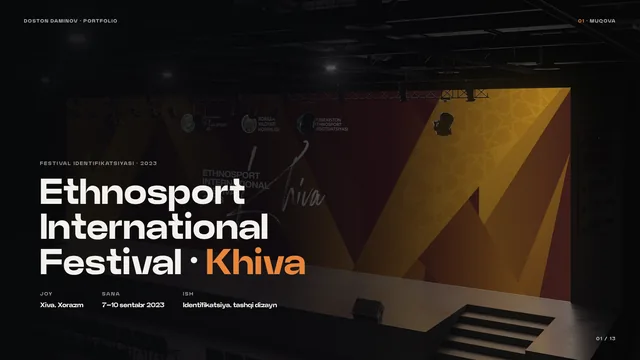
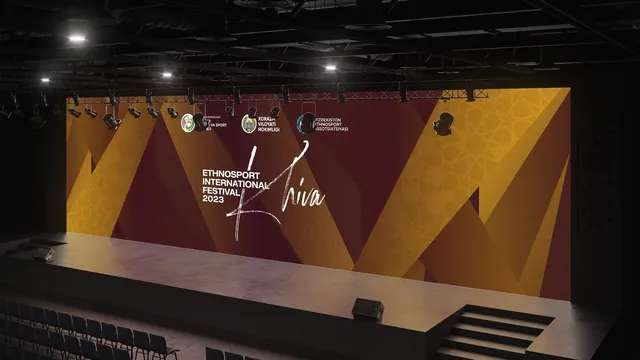
Project covers: shade with the project title and info, like the deck covers
Claude-Session: https://claude.ai/code/session_01VXXAcJEEEktwimZtrp579k

diff --git a/src/App.tsx b/src/App.tsx
@@ -695,14 +695,12 @@ function CategoryPage({ cat, onOpen }: { cat: Category; onOpen: (p: Project) => 
               <span className="relative block aspect-video overflow-hidden rounded-[1.25rem]">
                 {(p.videos || p.embed) && <span className="absolute top-3 left-3 z-10 rounded-full bg-black/70 px-3 py-1 text-[10px] font-bold tracking-wide text-white uppercase">{p.videos ? "▶ Video" : "▶ Motion"}</span>}
                 <img src={img(`${p.id}.webp`)} srcSet={`${img(`${p.id}-s.webp`)} 640w, ${img(`${p.id}.webp`)} 1200w`} sizes="(max-width: 640px) 95vw, 50vw" alt={t(p.title)} loading="lazy" decoding="async" className="h-full w-full object-cover transition-transform duration-[1.2s] ease-out group-hover:scale-105" />
+                <CoverText p={p} />
               </span>
               <span className="flex items-center gap-4 px-1 pt-4 pb-1">
                 <span className="min-w-0 flex-1">
                   <span className="block font-cond text-base font-extrabold uppercase sm:text-lg">{p.client}</span>
-                  <span className="block truncate text-xs text-white/50 sm:text-sm">
-                    {t(p.title)}
-                    {p.year && ` · ${p.year}`} · {t(p.tags)}
-                  </span>
+                  <span className="block truncate text-xs text-white/50 sm:hidden">{t(p.tags)}</span>
                 </span>
                 <span className="pill-line shrink-0 px-4 py-2 text-[10px] group-hover:bg-white group-hover:text-black sm:text-xs">{t(ui.projects.view)}</span>
               </span>
@@ -722,6 +720,43 @@ function CategoryPage({ cat, onOpen }: { cat: Category; onOpen: (p: Project) => 
         </div>
       </div>
     </main>
+  )
+}
+
+// Title over a project cover, like the deck covers: dark shade from the left and bottom,
+// the title with its last part in the accent color, and a small info row.
+const coverLabels = {
+  client: { uz: 'Mijoz', ru: 'Клиент', en: 'Client' },
+  year: { uz: 'Yil', ru: 'Год', en: 'Year' },
+  work: { uz: 'Ish', ru: 'Работа', en: 'Work' },
+}
+function CoverText({ p }: { p: Project }) {
+  const { t } = useLang()
+  const title = t(p.title)
+  const cut = title.lastIndexOf(' · ') >= 0 ? title.lastIndexOf(' · ') + 3 : title.lastIndexOf(' ') + 1
+  const head = title.slice(0, cut)
+  const tail = title.slice(cut)
+  const meta: [string, string][] = [[t(coverLabels.client), p.client]]
+  if (p.year) meta.push([t(coverLabels.year), p.year])
+  meta.push([t(coverLabels.work), t(p.tags)])
+  return (
+    <>
+      <span aria-hidden className="pointer-events-none absolute inset-0 bg-[linear-gradient(90deg,rgba(6,7,10,.9)_0%,rgba(6,7,10,.55)_45%,rgba(6,7,10,0)_80%),linear-gradient(0deg,rgba(6,7,10,.92)_0%,rgba(6,7,10,.6)_35%,rgba(6,7,10,0)_72%)]" />
+      <span className="pointer-events-none absolute inset-x-0 bottom-0 block p-4 sm:p-6 lg:p-7">
+        <span className="block max-w-[85%] font-display text-[clamp(1.25rem,2.6vw,2.3rem)] leading-[1.02] text-white normal-case">
+          {head}
+          <span style={{ color: p.accent || '#f39a4a' }}>{tail}</span>
+        </span>
+        <span className="mt-3 hidden gap-6 sm:flex">
+          {meta.map(([k, v]) => (
+            <span key={k} className="min-w-0">
+              <span className="block text-[9px] font-bold tracking-[0.18em] text-white/50 uppercase">{k}</span>
+              <span className="block truncate text-[11px] font-semibold text-white/90 lg:text-xs">{v}</span>
+            </span>
+          ))}
+        </span>
+      </span>
+    </>
   )
 }
 

diff --git a/src/content.ts b/src/content.ts
@@ -125,6 +125,8 @@ export const team = {
 }
 
 export type Project = {
+  /** color of the last word of the title on the cover (default orange) */
+  accent?: string
   /** an animated HTML presentation under public/, shown in the project view instead of images */
   embed?: string
   id: string
